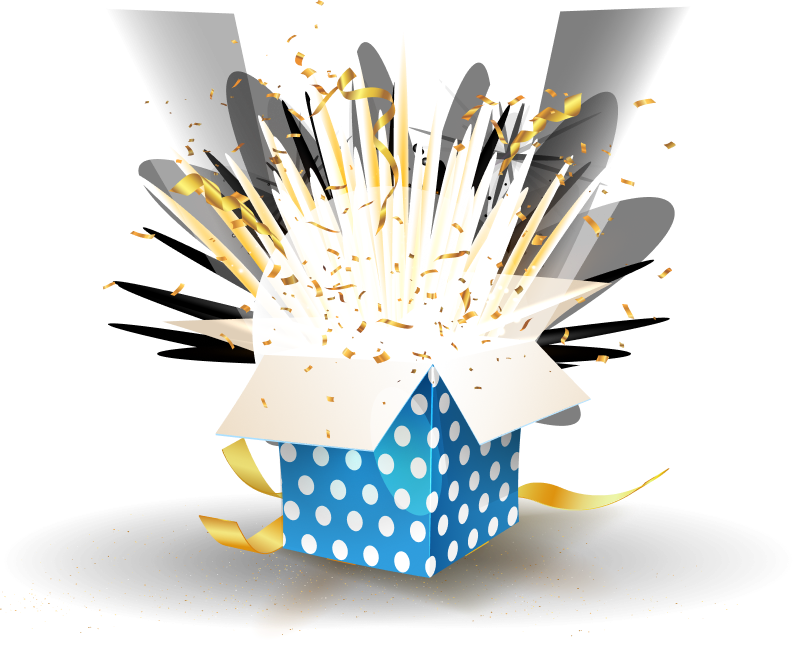
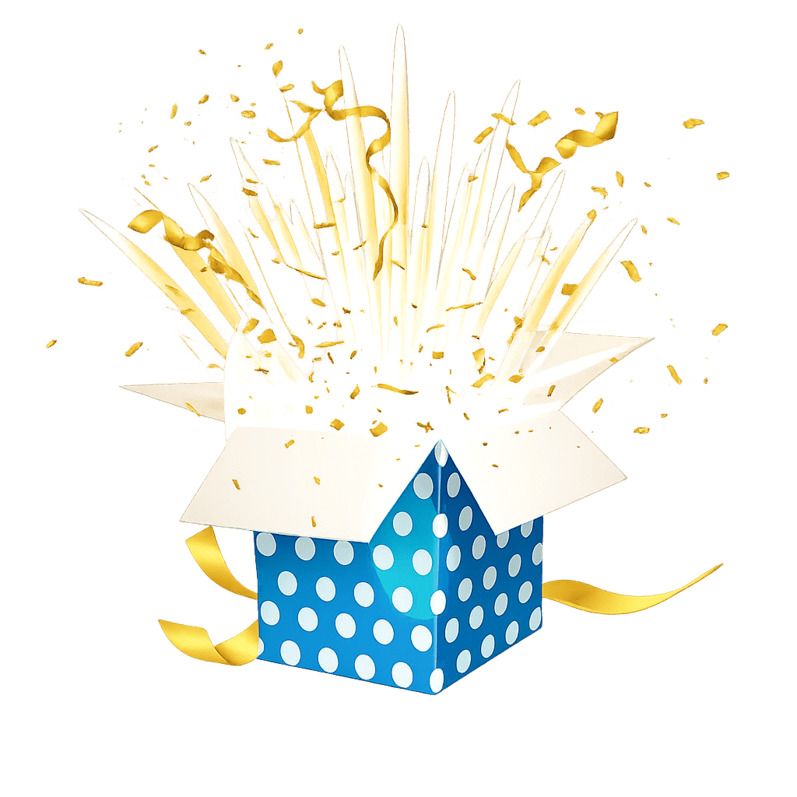
added holiday sale section

diff --git a/styles/styles.css b/styles/styles.css
@@ -187,9 +187,9 @@
 
     /* Best Offer Section Styles */
     .best-offer-section-container{
-        margin: 120px auto;
         display: grid;
         gap: 120px;
+        margin-top: 120px;
         align-items: center;
         justify-content: center;
         grid-template-columns: repeat(3 , 1fr);
@@ -235,7 +235,55 @@
         color: rgba(7, 2, 17, 0.6);
         font-family: "Inter", sans-serif;
     }
-
+    /* Holiday Sale Section Styles */
+    .holiday-section-container{
+        margin-top: 130px;
+    }
+    .holiday-section-text-contents-parent{
+        text-align: center;
+    }
+    .holiday-section-heading{
+        color: #070211;
+        font-size: 24px;
+        font-weight: 500;
+        font-family: "Inter", sans-serif;
+    }
+    .holiday-sale-title{
+        font-size: 72px ;
+        font-weight: 800;
+        color: #070211;
+        margin-top: 16px;
+        font-family: "Merriweather", serif;
+    }
+    .holiday-sale-title span{
+        color: #FF0000;
+    }
+    .holiday-sale-subtitle{
+        width: 40%;
+        font-size: 20px;
+        font-weight: 500;
+        line-height: 32px;
+        margin: 28px auto 0 auto;
+        color: rgba(7, 2, 17, 0.6);
+        font-family: "Inter", sans-serif;
+    }
+    .holiday-sale-bottom-parent{
+        height: 220px;
+        position: relative;
+        margin-top: 600px;
+        border-radius: 16px;
+        background-color: #FF0000;
+    }
+    .gift-box{
+        left: 50px;
+        bottom: -30px;
+        position: absolute;
+    }
+    .holiday-sale-tag{
+        bottom: 350px;
+        right: 100px;
+        position: absolute;
+    }
 /* Reponsive Styles for Small Screens */
 @media screen and (max-width:576px) {
 
@@ -370,6 +418,38 @@
     .best-offer-right-des{
         font-size: 18px;
     }
+    /* Holiday Sale Section Styles */
+    .holiday-section-container{
+        margin:60px 20px;
+    }
+   
+    .holiday-section-heading{
+        font-size: 20px;
+    }
+    .holiday-sale-title{
+        font-size: 38px ;
+    }
+  
+    .holiday-sale-subtitle{
+        width: 90%;
+        font-size: 16px;
+        line-height: normal;
+        margin: 20px auto 0 auto;
+    }
+    .holiday-sale-bottom-parent{
+        height: 150px;
+        margin-top: 350px;
+        border-radius: 16px;
+    }
+    .gift-box{
+        bottom: -20px;
+        left: 20px;
+    }
+     .holiday-sale-tag{
+        bottom: 250px;
+        right: 100px;
+        width: 150px;
+    }
 
 }
 
@@ -472,5 +552,29 @@
     .best-offer-right-heading{
         font-size: 48px;
     }
-  
+  /* Holiday Sale Section Styles */
+   .holiday-section-container{
+        margin:80px 30px;
+    }
+   
+    .holiday-sale-title{
+        font-size: 50px ;
+    }
+   
+    .holiday-sale-subtitle{
+        width: 80%;
+        margin: 24px auto 0 auto;
+    }
+    .holiday-sale-bottom-parent{
+        margin-top: 500px;
+    }
+    .gift-box{
+        bottom: -30px;
+        left: 20px;
+    }
+    .holiday-sale-tag{
+        bottom: 400px;
+        right: 200px;
+        width: 250px;
+    }
 }

diff --git a/index.html b/index.html
@@ -124,6 +124,28 @@
 
             </div>
         </section>
+        <!-- Holiday Sale Section-->
+        <section class="container">
+            <div class="holiday-section-container">
+                <div class="holiday-section-text-contents-parent">
+                    <h6 class="holiday-section-heading">WHAT IS FUNCTIONAL</h6>
+                    <h1 class="holiday-sale-title"><span> Holidays</span> Sale 50%</h1>
+                    <p class="holiday-sale-subtitle">Celebrate the spirit of the New Year with exclusive holiday discounts, limited-time offers, and
+                        exciting savings on your favorite products. Shop now and make every purchase a memorable start
+                        to the year.</p>
+                </div>
+                <div class="holiday-sale-bottom-parent">
+                     
+                    <div class="gift-box">
+                        <img src="./images/Group2 75.png" alt="">
+                    </div>
+                    
+                    <div class="holiday-sale-tag">
+                        <img src="./images/Group 44.png" alt="">
+                    </div>
+                </div>
+            </div>
+        </section>
     </main>
 
     <footer>